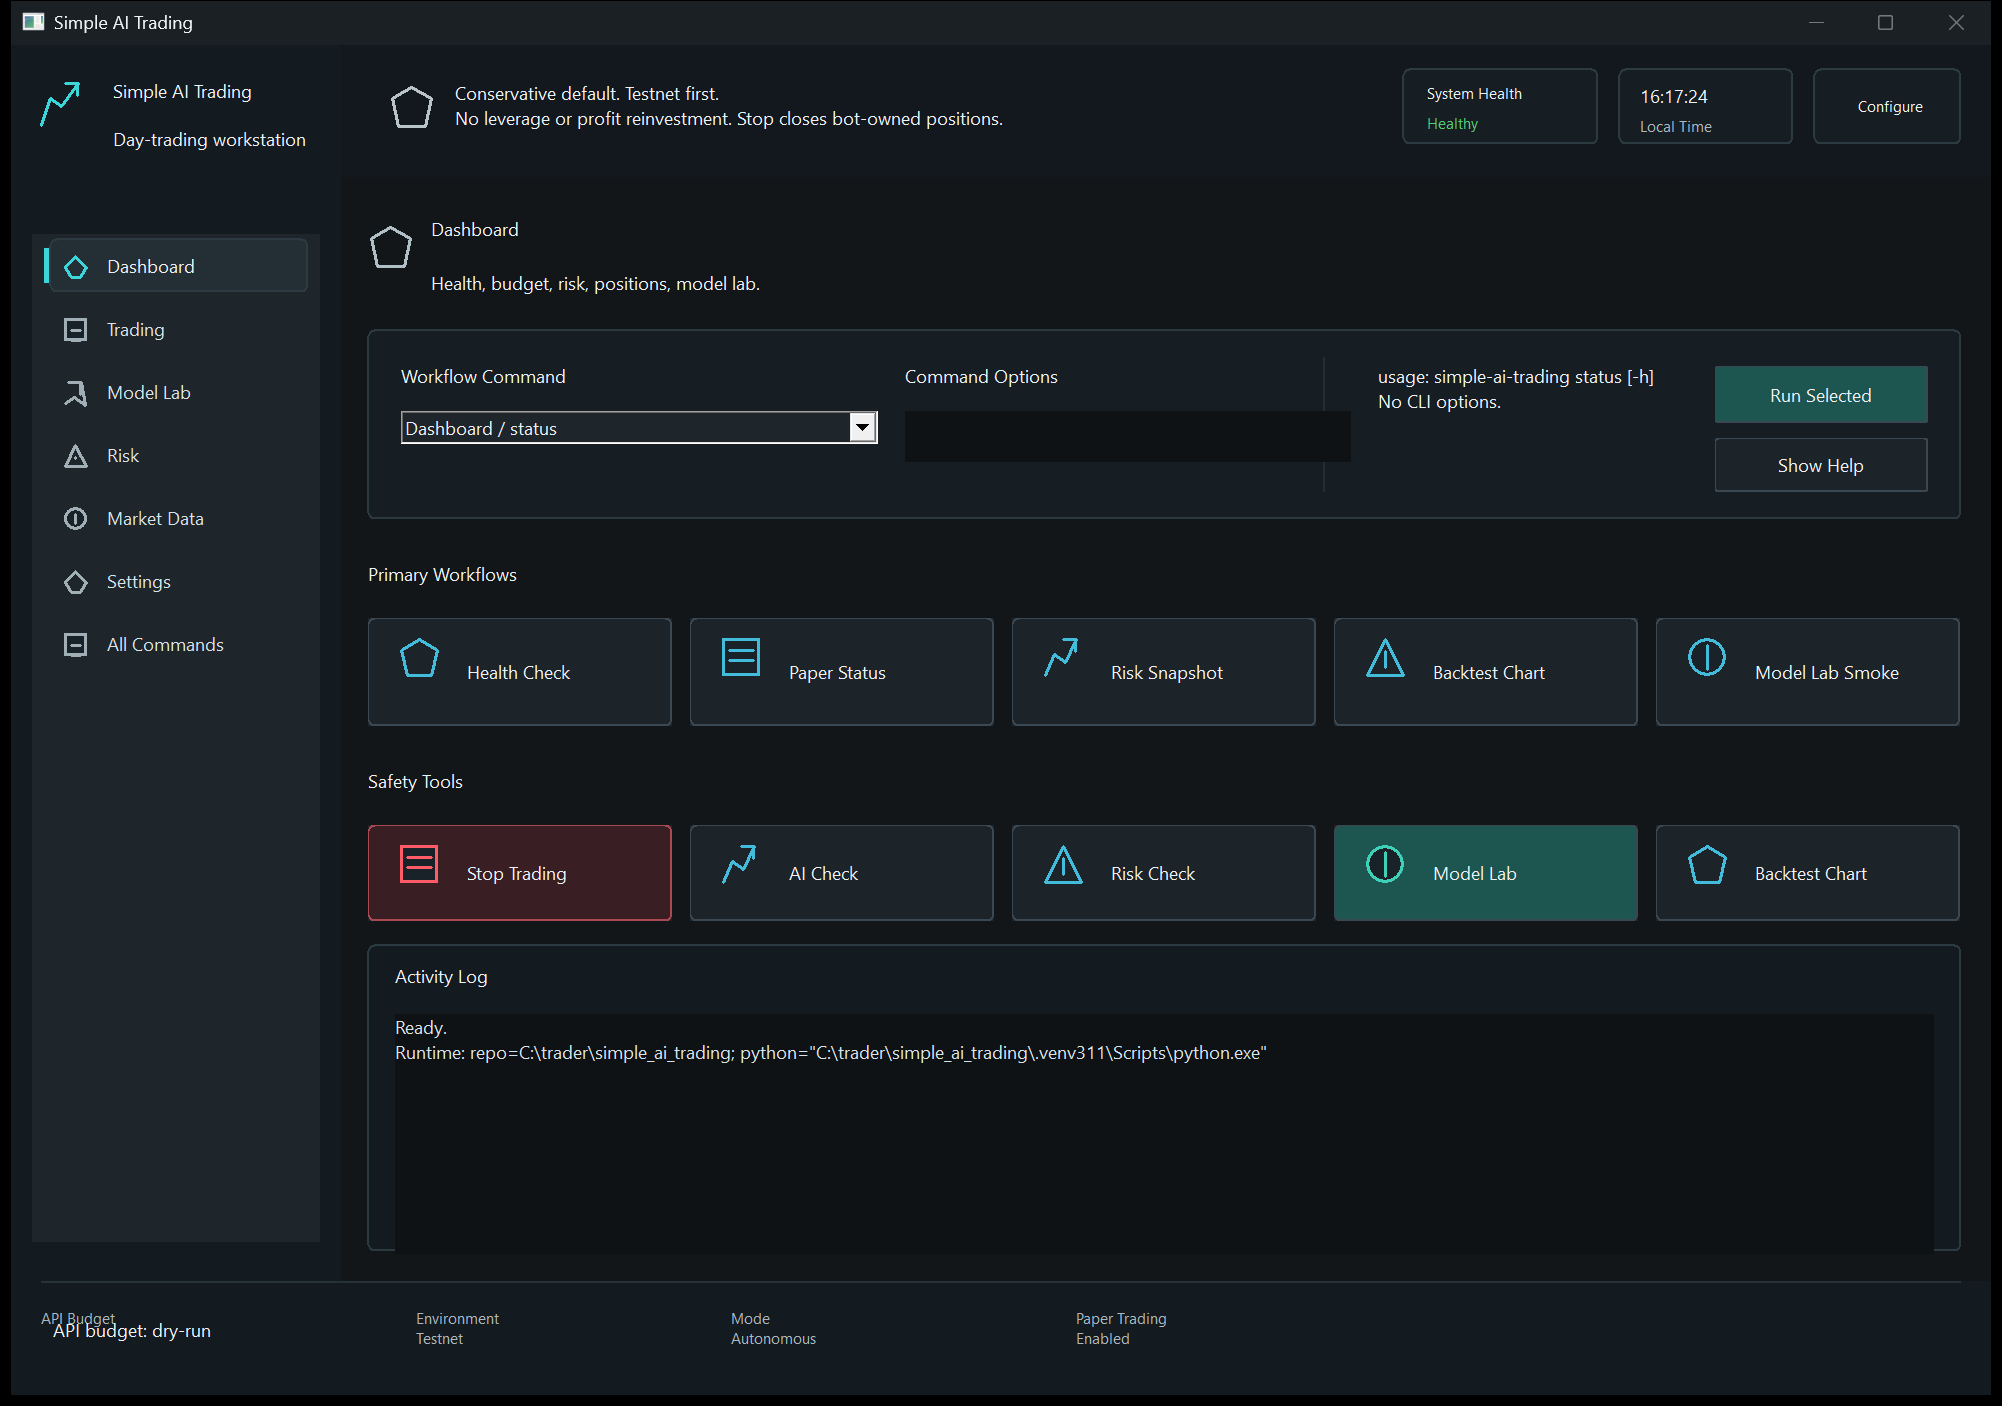
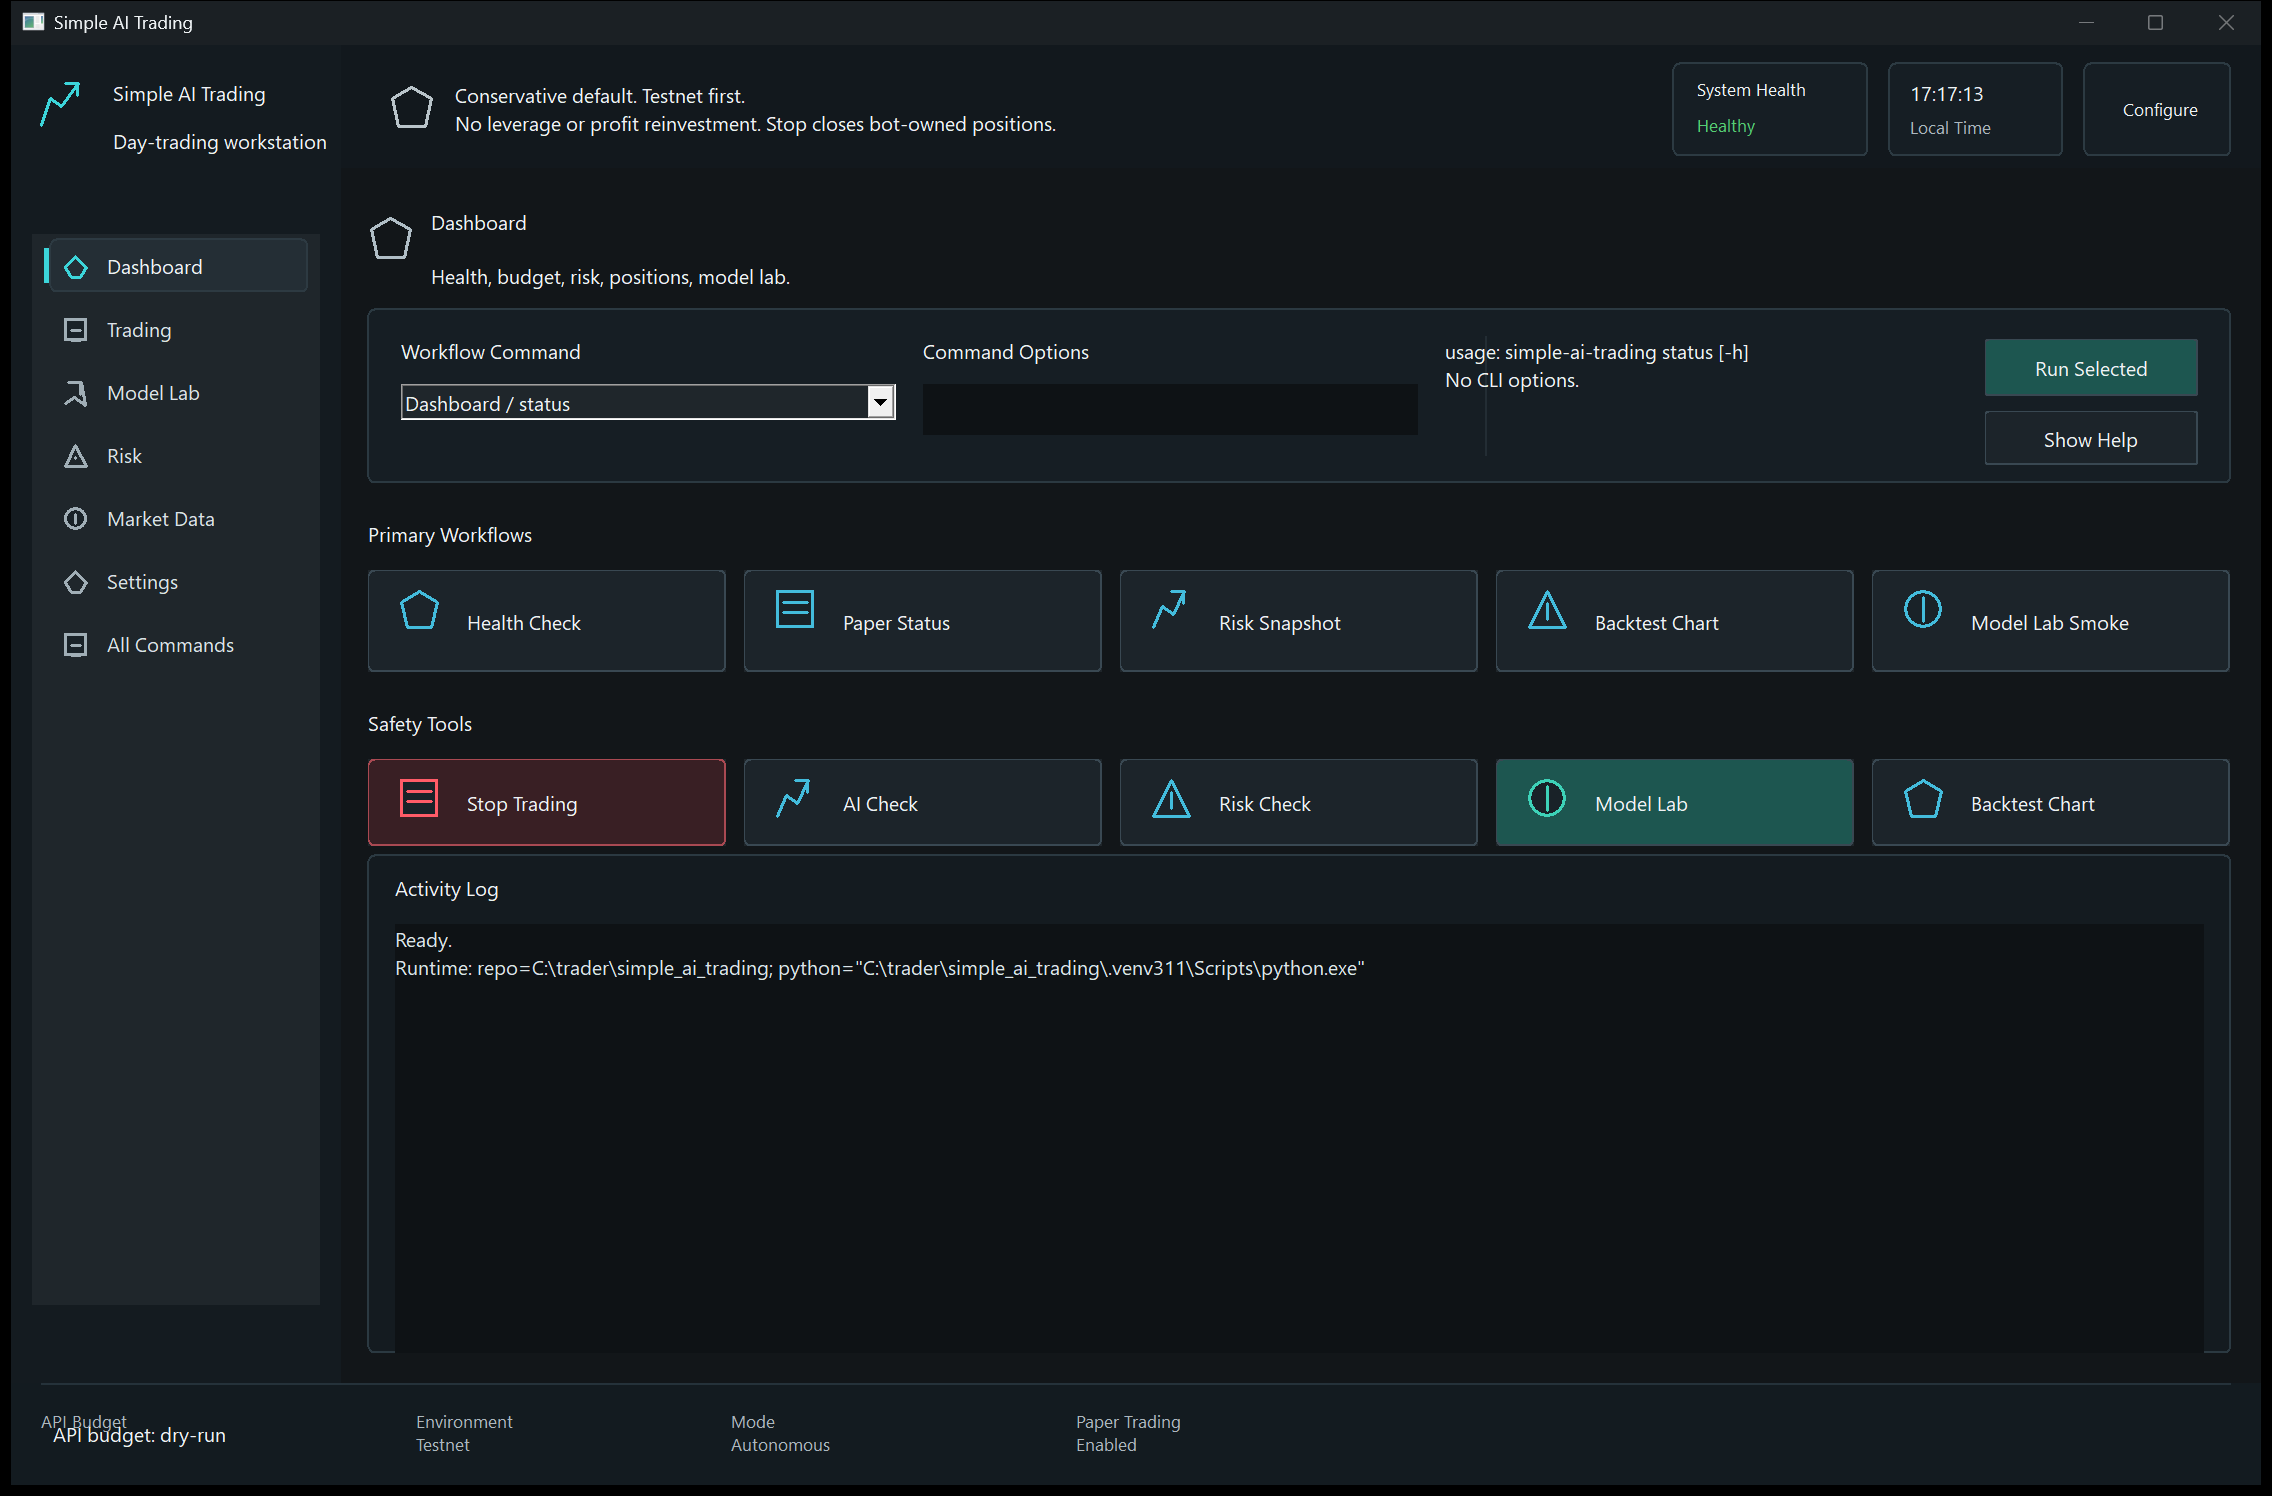
Harden native Windows layout validation

diff --git a/native/windows/src/main.cpp b/native/windows/src/main.cpp
@@ -21,10 +21,10 @@ using simple_ai_trading::native_contract::CommandSpec;
 using simple_ai_trading::native_contract::kCommandCount;
 using simple_ai_trading::native_contract::kCommands;
 
-constexpr int kInitialWidth = 1320;
-constexpr int kInitialHeight = 900;
-constexpr int kMinWidth = 940;
-constexpr int kMinHeight = 680;
+constexpr int kInitialWidth = 1500;
+constexpr int kInitialHeight = 960;
+constexpr int kMinWidth = 1180;
+constexpr int kMinHeight = 840;
 constexpr COLORREF kBg = RGB(18, 22, 25);
 constexpr COLORREF kShell = RGB(24, 30, 34);
 constexpr COLORREF kPanel = RGB(31, 38, 43);
@@ -49,6 +49,7 @@ enum ControlId : int {
     kRiskReportId = 108,
     kModelLabId = 109,
     kBacktestChartId = 110,
+    kStatusBarId = 111,
     kQuickBaseId = 200,
 };
 
@@ -336,10 +337,10 @@ class MainWindow {
         if (body_font_) DeleteObject(body_font_);
         if (small_font_) DeleteObject(small_font_);
         if (mono_font_) DeleteObject(mono_font_);
-        title_font_ = make_font(20, FW_SEMIBOLD);
-        body_font_ = make_font(12, FW_NORMAL);
-        small_font_ = make_font(10, FW_NORMAL);
-        mono_font_ = make_font(11, FW_NORMAL, L"Consolas");
+        title_font_ = make_font(21, FW_SEMIBOLD);
+        body_font_ = make_font(13, FW_NORMAL);
+        small_font_ = make_font(11, FW_NORMAL);
+        mono_font_ = make_font(12, FW_NORMAL, L"Consolas");
         for (HWND control : all_controls()) {
             if (control) {
                 SendMessageW(control, WM_SETFONT, reinterpret_cast<WPARAM>(body_font_), TRUE);
@@ -420,7 +421,7 @@ class MainWindow {
         risk_report_ = create_control(L"BUTTON", L"Risk Check", BS_OWNERDRAW | WS_TABSTOP, kRiskReportId);
         model_lab_ = create_control(L"BUTTON", L"Model Lab", BS_OWNERDRAW | WS_TABSTOP, kModelLabId);
         backtest_chart_ = create_control(L"BUTTON", L"Backtest Chart", BS_OWNERDRAW | WS_TABSTOP, kBacktestChartId);
-        status_bar_ = create_control(L"STATIC", L"API budget: loading", SS_LEFT | SS_NOPREFIX, 0);
+        status_bar_ = create_control(L"STATIC", L"API budget: loading", SS_LEFT | SS_NOPREFIX, kStatusBarId);
         for (int i = 0; i < static_cast<int>(quick_buttons_.size()); ++i) {
             quick_buttons_[static_cast<std::size_t>(i)] =
                 create_control(L"BUTTON", L"", BS_OWNERDRAW | WS_TABSTOP, kQuickBaseId + i);
@@ -442,8 +443,8 @@ class MainWindow {
         GetClientRect(hwnd_, &client);
         const int pad = scale(20);
         const int sidebar = scale(220);
-        const int header_h = scale(88);
-        const int footer_h = scale(76);
+        const int header_h = scale(82);
+        const int footer_h = scale(68);
         const int gap = scale(18);
         const int right = client.right - pad;
         const int footer_top = client.bottom - footer_h;
@@ -458,9 +459,9 @@ class MainWindow {
         MoveWindow(page_title_, main_left + scale(42), header_h + scale(26), main_width - scale(42), scale(34), TRUE);
         MoveWindow(page_summary_, main_left + scale(42), header_h + scale(62), main_width - scale(42), scale(24), TRUE);
 
-        const int command_card_top = header_h + scale(102);
-        const int command_card_h = scale(126);
-        const int command_inner_top = command_card_top + scale(22);
+        const int command_card_top = header_h + scale(94);
+        const int command_card_h = scale(116);
+        const int command_inner_top = command_card_top + scale(18);
         const int run_w = scale(142);
         const int combo_w = std::min(scale(330), std::max(scale(260), main_width * 30 / 100));
         const int args_w = std::min(scale(330), std::max(scale(240), main_width * 28 / 100));
@@ -476,12 +477,12 @@ class MainWindow {
         MoveWindow(run_selected_, run_left, command_inner_top + scale(2), run_w, scale(38), TRUE);
         MoveWindow(selected_help_, run_left, command_inner_top + scale(50), run_w, scale(36), TRUE);
 
-        const int quick_label_top = command_card_top + command_card_h + scale(28);
+        const int quick_label_top = command_card_top + command_card_h + scale(24);
         MoveWindow(quick_label_, main_left, quick_label_top, main_width, scale(26), TRUE);
-        const int quick_top = quick_label_top + scale(38);
+        const int quick_top = quick_label_top + scale(34);
         const int quick_cols = page_index_ == 0 && main_width >= scale(980) ? 5 : (main_width >= scale(780) ? 3 : 2);
         const int quick_gap = scale(12);
-        const int quick_h = scale(72);
+        const int quick_h = scale(68);
         const int quick_w = (main_width - (quick_gap * (quick_cols - 1))) / quick_cols;
         for (int i = 0; i < static_cast<int>(quick_buttons_.size()); ++i) {
             const int col = i % quick_cols;
@@ -497,20 +498,20 @@ class MainWindow {
 
         const int visible_actions = std::min(static_cast<int>(quick_actions_.size()), static_cast<int>(quick_buttons_.size()));
         const int quick_rows = std::max(1, (visible_actions + quick_cols - 1) / quick_cols);
-        const int tools_label_top = quick_top + (quick_rows * quick_h) + ((quick_rows - 1) * quick_gap) + scale(28);
+        const int tools_label_top = quick_top + (quick_rows * quick_h) + ((quick_rows - 1) * quick_gap) + scale(24);
         MoveWindow(tools_label_, main_left, tools_label_top, main_width, scale(26), TRUE);
-        const int tools_top = tools_label_top + scale(38);
+        const int tools_top = tools_label_top + scale(34);
         const int tool_gap = scale(12);
         const int tool_w = (main_width - (tool_gap * 4)) / 5;
-        MoveWindow(stop_all_, main_left, tools_top, tool_w, scale(64), TRUE);
-        MoveWindow(ai_preflight_, main_left + (tool_w + tool_gap), tools_top, tool_w, scale(64), TRUE);
-        MoveWindow(risk_report_, main_left + (2 * (tool_w + tool_gap)), tools_top, tool_w, scale(64), TRUE);
-        MoveWindow(model_lab_, main_left + (3 * (tool_w + tool_gap)), tools_top, tool_w, scale(64), TRUE);
-        MoveWindow(backtest_chart_, main_left + (4 * (tool_w + tool_gap)), tools_top, tool_w, scale(64), TRUE);
+        MoveWindow(stop_all_, main_left, tools_top, tool_w, scale(58), TRUE);
+        MoveWindow(ai_preflight_, main_left + (tool_w + tool_gap), tools_top, tool_w, scale(58), TRUE);
+        MoveWindow(risk_report_, main_left + (2 * (tool_w + tool_gap)), tools_top, tool_w, scale(58), TRUE);
+        MoveWindow(model_lab_, main_left + (3 * (tool_w + tool_gap)), tools_top, tool_w, scale(58), TRUE);
+        MoveWindow(backtest_chart_, main_left + (4 * (tool_w + tool_gap)), tools_top, tool_w, scale(58), TRUE);
 
-        const int output_top = tools_top + scale(126);
+        const int output_top = tools_top + scale(110);
         MoveWindow(output_label_, main_left + scale(18), output_top - scale(34), main_width - scale(36), scale(28), TRUE);
-        MoveWindow(output_edit_, main_left + scale(18), output_top, main_width - scale(36), std::max(scale(160), bottom - output_top), TRUE);
+        MoveWindow(output_edit_, main_left + scale(18), output_top, main_width - scale(36), std::max(scale(96), bottom - output_top), TRUE);
         MoveWindow(status_bar_, scale(28), footer_top + scale(24), client.right - scale(56), scale(30), TRUE);
     }
 
@@ -523,8 +524,8 @@ class MainWindow {
 
         const int pad = scale(20);
         const int sidebar = scale(220);
-        const int header_h = scale(88);
-        const int footer_h = scale(76);
+        const int header_h = scale(82);
+        const int footer_h = scale(68);
         const int gap = scale(18);
         const int footer_top = client.bottom - footer_h;
         const int main_left = sidebar + gap;
@@ -543,22 +544,22 @@ class MainWindow {
         RECT shield{main_left + scale(16), scale(28), main_left + scale(42), scale(54)};
         draw_simple_icon(dc, shield, RGB(185, 196, 202), 0);
 
-        RECT health_box{right - scale(372), scale(16), right - scale(242), scale(66)};
-        RECT time_box{right - scale(228), scale(16), right - scale(112), scale(66)};
-        RECT config_box{right - scale(98), scale(16), right, scale(66)};
+        RECT health_box{right - scale(372), scale(12), right - scale(242), scale(74)};
+        RECT time_box{right - scale(228), scale(12), right - scale(112), scale(74)};
+        RECT config_box{right - scale(98), scale(12), right, scale(74)};
         round_rect(dc, health_box, RGB(22, 30, 36), RGB(44, 58, 66), scale(8));
         round_rect(dc, time_box, RGB(22, 30, 36), RGB(44, 58, 66), scale(8));
         round_rect(dc, config_box, RGB(22, 30, 36), RGB(44, 58, 66), scale(8));
-        RECT health_title{health_box.left + scale(16), health_box.top + scale(9), health_box.right - scale(12), health_box.top + scale(27)};
-        RECT health_status{health_box.left + scale(16), health_box.top + scale(29), health_box.right - scale(12), health_box.bottom - scale(8)};
+        RECT health_title{health_box.left + scale(16), health_box.top + scale(10), health_box.right - scale(12), health_box.top + scale(31)};
+        RECT health_status{health_box.left + scale(16), health_box.top + scale(34), health_box.right - scale(12), health_box.bottom - scale(8)};
         draw_text(dc, L"System Health", health_title, small_font_, kText, DT_LEFT | DT_SINGLELINE | DT_END_ELLIPSIS);
         draw_text(dc, L"Healthy", health_status, small_font_, RGB(85, 206, 116), DT_LEFT | DT_SINGLELINE | DT_END_ELLIPSIS);
         SYSTEMTIME local_time{};
         GetLocalTime(&local_time);
         wchar_t time_value[16]{};
         swprintf_s(time_value, L"%02d:%02d:%02d", local_time.wHour, local_time.wMinute, local_time.wSecond);
-        RECT time_main{time_box.left + scale(14), time_box.top + scale(9), time_box.right - scale(10), time_box.top + scale(29)};
-        RECT time_caption{time_box.left + scale(14), time_box.top + scale(31), time_box.right - scale(10), time_box.bottom - scale(8)};
+        RECT time_main{time_box.left + scale(14), time_box.top + scale(10), time_box.right - scale(10), time_box.top + scale(32)};
+        RECT time_caption{time_box.left + scale(14), time_box.top + scale(35), time_box.right - scale(10), time_box.bottom - scale(8)};
         draw_text(dc, time_value, time_main, body_font_, kText, DT_LEFT | DT_SINGLELINE | DT_END_ELLIPSIS);
         draw_text(dc, L"Local Time", time_caption, small_font_, kMuted, DT_LEFT | DT_SINGLELINE | DT_END_ELLIPSIS);
         RECT config_text{config_box.left + scale(14), config_box.top, config_box.right - scale(10), config_box.bottom};
@@ -567,22 +568,22 @@ class MainWindow {
         RECT page_icon{main_left + scale(2), header_h + scale(33), main_left + scale(28), header_h + scale(59)};
         draw_simple_icon(dc, page_icon, RGB(176, 190, 198), page_index_);
 
-        const int command_card_top = header_h + scale(102);
-        RECT command_card{main_left, command_card_top, right, command_card_top + scale(126)};
+        const int command_card_top = header_h + scale(94);
+        RECT command_card{main_left, command_card_top, right, command_card_top + scale(116)};
         round_rect(dc, command_card, RGB(22, 30, 36), RGB(43, 57, 65), scale(8));
         RECT command_divider{main_left + main_width * 60 / 100, command_card.top + scale(18), main_left + main_width * 60 / 100 + scale(1), command_card.bottom - scale(18)};
         fill_rect(dc, command_divider, RGB(35, 45, 52));
 
-        const int quick_label_top = command_card.bottom + scale(28);
-        const int quick_top = quick_label_top + scale(38);
+        const int quick_label_top = command_card.bottom + scale(24);
+        const int quick_top = quick_label_top + scale(34);
         const int quick_cols = page_index_ == 0 && main_width >= scale(980) ? 5 : (main_width >= scale(780) ? 3 : 2);
         const int quick_gap = scale(12);
-        const int quick_h = scale(72);
+        const int quick_h = scale(68);
         const int visible_actions = std::min(static_cast<int>(quick_actions_.size()), static_cast<int>(quick_buttons_.size()));
         const int quick_rows = std::max(1, (visible_actions + quick_cols - 1) / quick_cols);
-        const int tools_label_top = quick_top + (quick_rows * quick_h) + ((quick_rows - 1) * quick_gap) + scale(28);
-        const int tools_top = tools_label_top + scale(38);
-        const int output_top = tools_top + scale(126);
+        const int tools_label_top = quick_top + (quick_rows * quick_h) + ((quick_rows - 1) * quick_gap) + scale(24);
+        const int tools_top = tools_label_top + scale(34);
+        const int output_top = tools_top + scale(110);
         RECT output_card{main_left, output_top - scale(46), right, footer_top - pad};
         round_rect(dc, output_card, RGB(20, 27, 32), RGB(43, 57, 65), scale(8));
 

diff --git a/tests/test_ai_runtime_and_parity.py b/tests/test_ai_runtime_and_parity.py
@@ -123,6 +123,7 @@ def test_native_window_initializes_hwnd_during_create() -> None:
     assert 'L"Backtest Chart"' in source
     assert 'L"Activity Log"' in source
     assert "status_bar_" in source
+    assert "kStatusBarId = 111" in source
     assert "page_summary_" in source
     assert "kApiBudgetRefreshMs = 90000" in source
     assert 'L"api-budget --compact"' in source
@@ -138,6 +139,7 @@ def test_native_window_has_repeatable_smoke_and_capture_tools() -> None:
     root = windows_app._repo_root()
     smoke = (root / "tools" / "smoke_native_windows_ui.ps1").read_text(encoding="utf-8")
     capture = (root / "tools" / "capture_native_windows_app.ps1").read_text(encoding="utf-8")
+    layout = (root / "tools" / "validate_native_windows_layout.ps1").read_text(encoding="utf-8")
 
     assert "SIMPLE_AI_TRADING_GUI_DRY_RUN" in smoke
     assert "Stop Trading" in smoke
@@ -145,6 +147,10 @@ def test_native_window_has_repeatable_smoke_and_capture_tools() -> None:
     assert "SetProcessDPIAware" in capture
     assert "PrintWindow" in capture
     assert "Captured window is too small" in capture
+    assert "$StatusBarId = 111" in layout
+    assert "dashboard workflow card" in layout
+    assert "Assert-PixelHealth" in layout
+    assert "API budget footer" in layout
 
 
 def _wide(text: str) -> str:

diff --git a/tests/test_release_workflow.py b/tests/test_release_workflow.py
@@ -58,5 +58,7 @@ def test_beta_release_workflow_is_manual_prerelease_with_replacement_guard() -> 
     assert "--prerelease" in action
     assert "replace_existing=true requires replacement_acknowledgement exactly" in action
     assert "tools\\build_native_windows.ps1" in action
+    assert "tools\\smoke_native_windows_ui.ps1" in action
+    assert "tools\\validate_native_windows_layout.ps1" in action
     assert "coverage report --fail-under=95" in action
     assert "SimpleAITrading.exe" in action

diff --git a/README.md b/README.md
@@ -111,6 +111,7 @@ Startup behavior:
 - The bottom status bar shows the shared CLI API-budget summary. It refreshes opportunistically rather than constantly: automatic refresh is capped to the 60-120 second band and defaults to 90 seconds, while command-completion updates use cached status.
 - `tools\smoke_native_windows_ui.ps1` launches the app in dry-run mode, walks every workflow page, clicks the dashboard cards and safety buttons, and then performs a real Compute smoke unless `-SkipRealCompute` is passed.
 - `tools\capture_native_windows_app.ps1` creates a DPI-aware PNG artifact of the dashboard and fails if the captured app is smaller than the configured minimum window size.
+- `tools\validate_native_windows_layout.ps1` launches the real Win32 app, checks stable control geometry, footer API-budget presence, hidden/visible workflow cards, and screenshot pixel health so small-window or overlapping UI regressions fail before release.
 
 ## Core Workflows
 